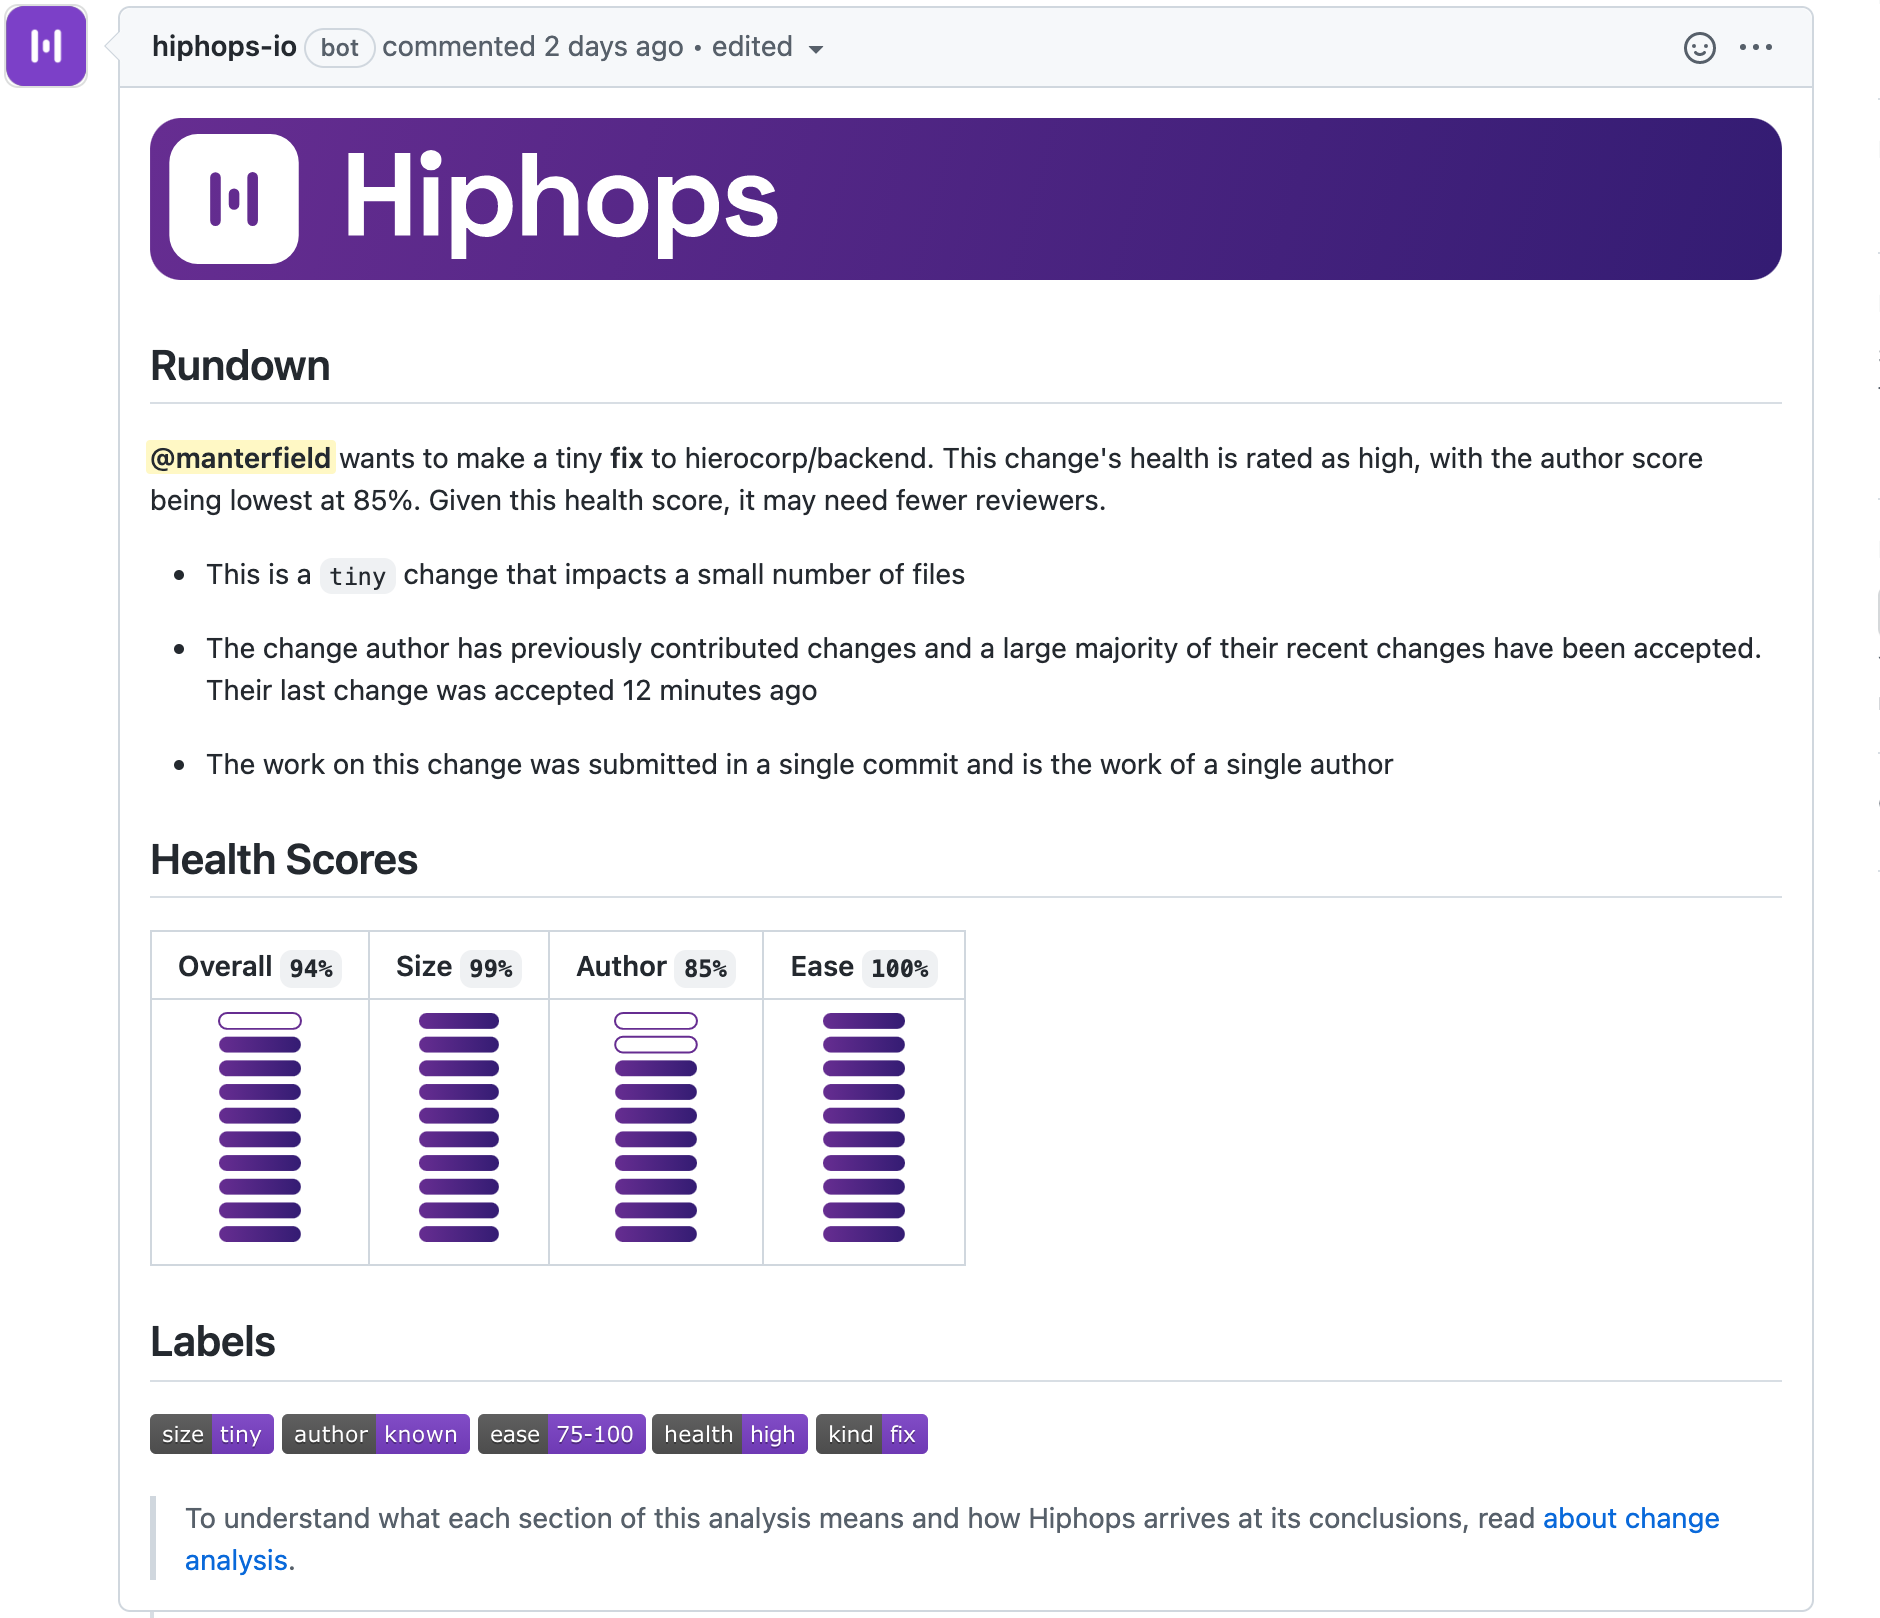
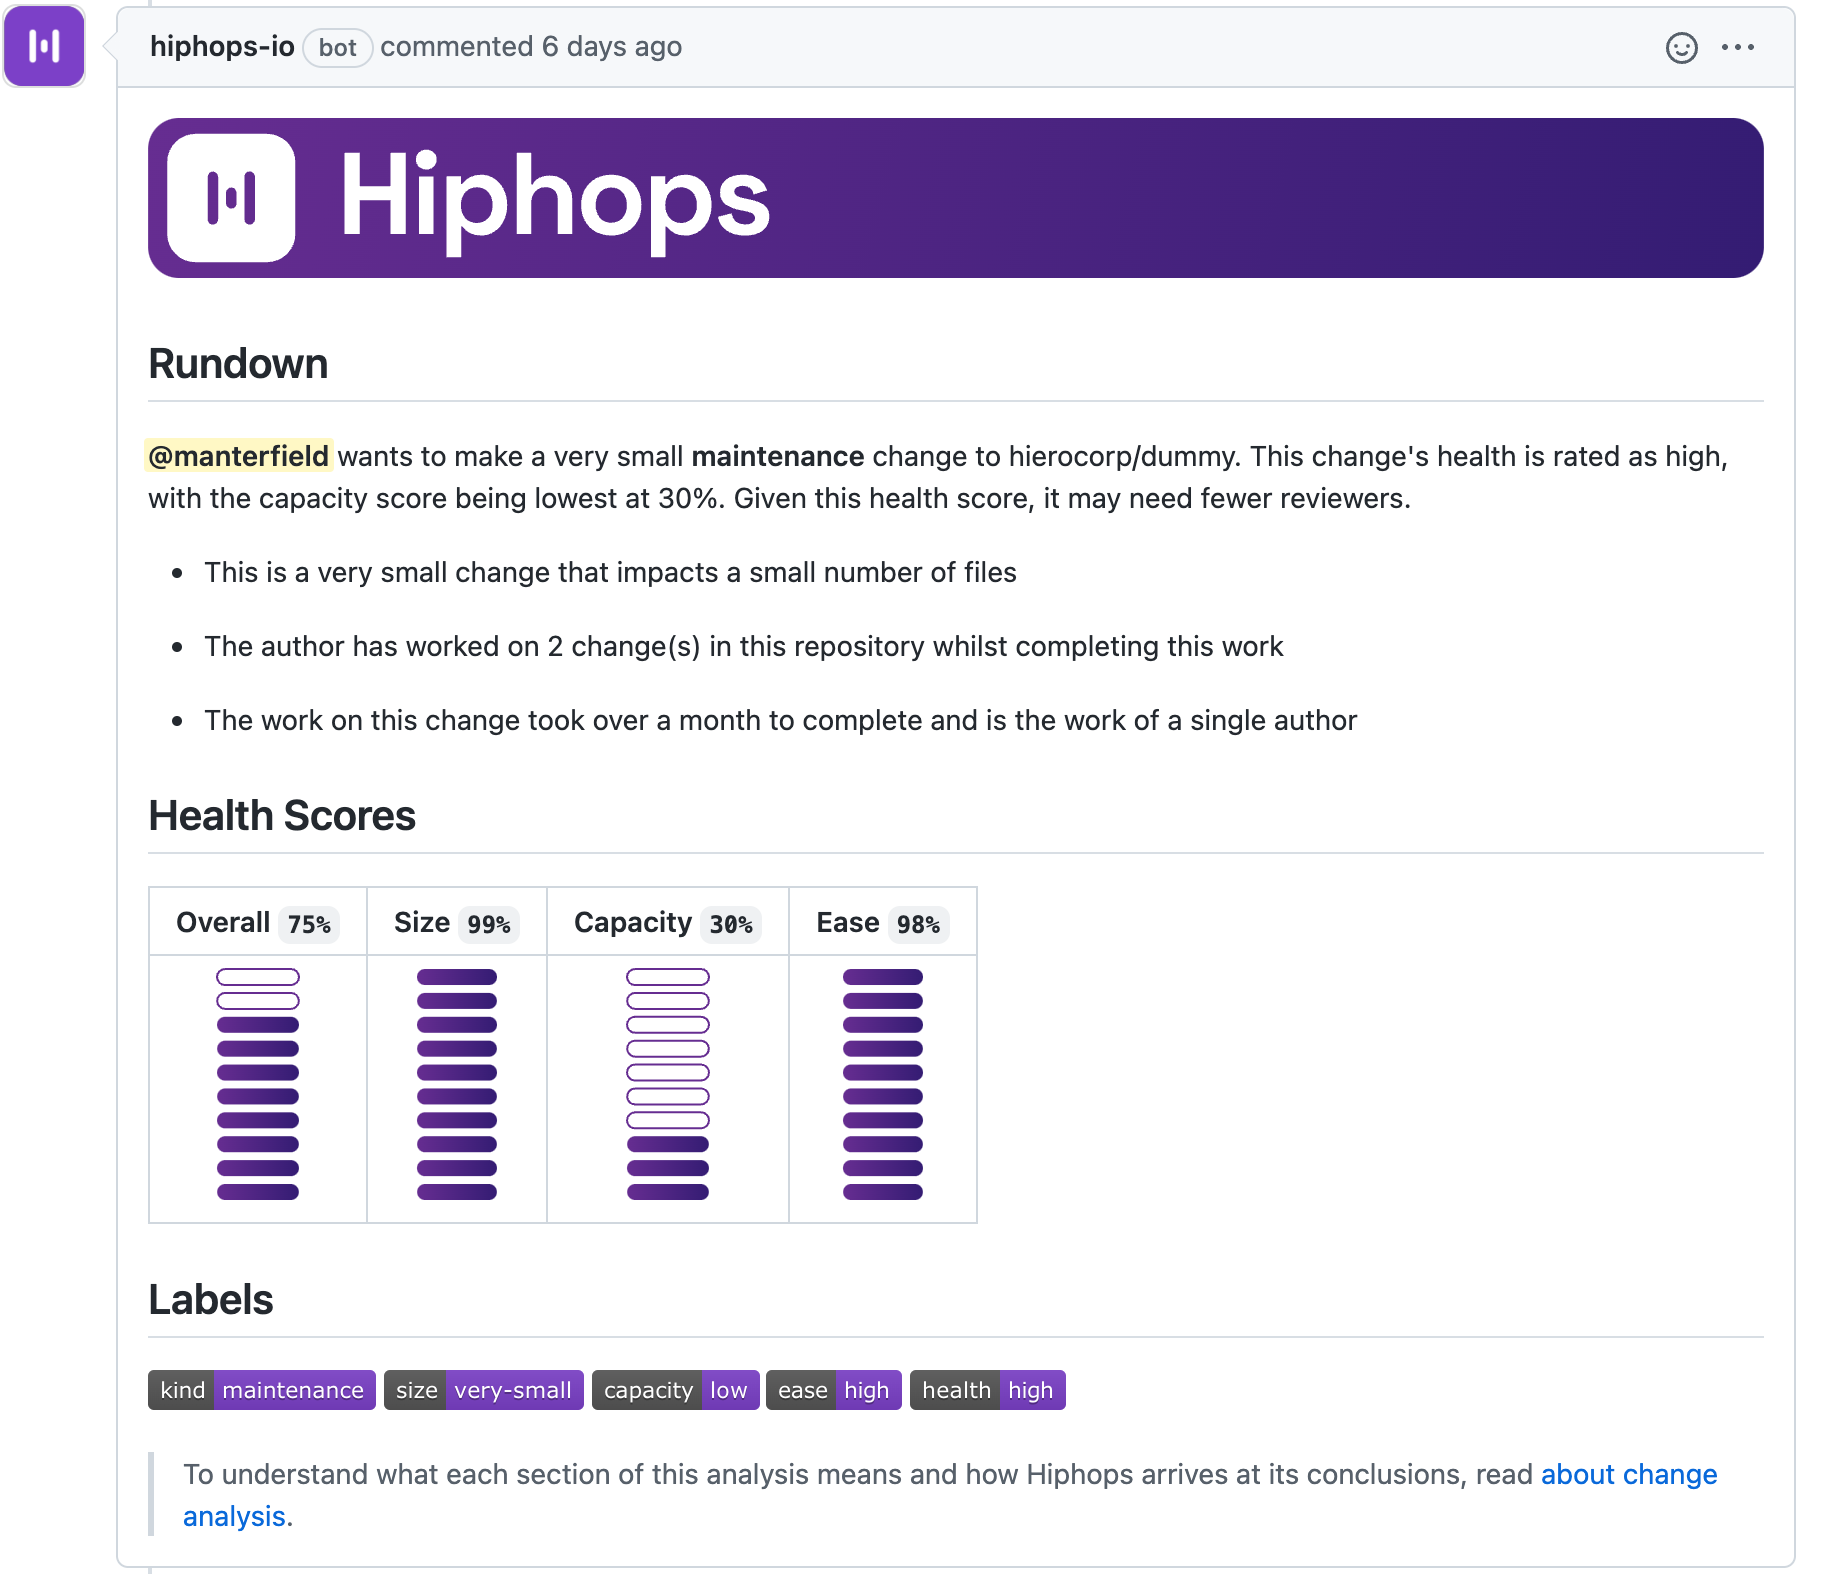
Updated docs to be correct for new capacity analysis and labels

diff --git a/docs/intro.md b/docs/intro.md
@@ -48,7 +48,7 @@ Access to objectively assigned categories for every change enables teams to unde
 
 The health of a change can be seen as a measure of both good working practices and how stringent the review process should be.
 
-We generate the health by looking at three key metrics; `size`, `author`, and `ease`. These metrics correlate strongly with good change outcomes and are based on three principles:
+We generate the health by looking at three key metrics; `size`, `capacity`, and `ease`. These metrics correlate strongly with good change outcomes and are based on three principles:
 
 1. **Small changes are safer than large changes**
 2. **Authors that are focused on a single task at a time produce fewer errors than authors with a larger workload**
@@ -62,11 +62,11 @@ Hiphops produces a score for each of the three categories in addition to an over
 
 We score based on the number of files altered in addition to the number of lines added/deleted. Our algorithm accounts for changes that only alter a few lines of code yet impact a wide area of the codebase.
 
-**Author**
+**Capacity**
 
-Author is based on the recent activity of the author of the change (the one that raised the PR). We consider the last 500 pull requests against the current repository only.
+Capacity is the detected workload of the author (the one that raised the PR). We only consider the last 500 PRs against the current repository, analysing for concurrent work in addition to increased failure rates.
 
-!> We currently score authors based on recent successfully approved changes. This is being modified in the next algorithm update, where we will account for a sustainable rate of work and lower context switching.
+High scores denote an author working comfortably within their available capacity, a low score indictates they may be over-utilised or having to frequently switch context.
 
 **Ease**
 
@@ -82,9 +82,9 @@ The possible labels are:
 
 `kind/fix` `kind/maintenance` `kind/enhancement`
 
-`size/tiny` `size/small` `size/medium` `size/medium-large` `size/large` `size/very-large`
+`size/very-small` `size/small` `size/medium` `size/medium-large` `size/large` `size/very-large`
 
-`author/new` `author/pending` `author/known` *author/pending is an author that has requested changes without any being accepted so far*
+`capacity/very-low` `capacity/low` `capacity/medium` `capacity/high`
 
 `ease/very-low` `ease/low` `ease/medium` `ease/high`
 
